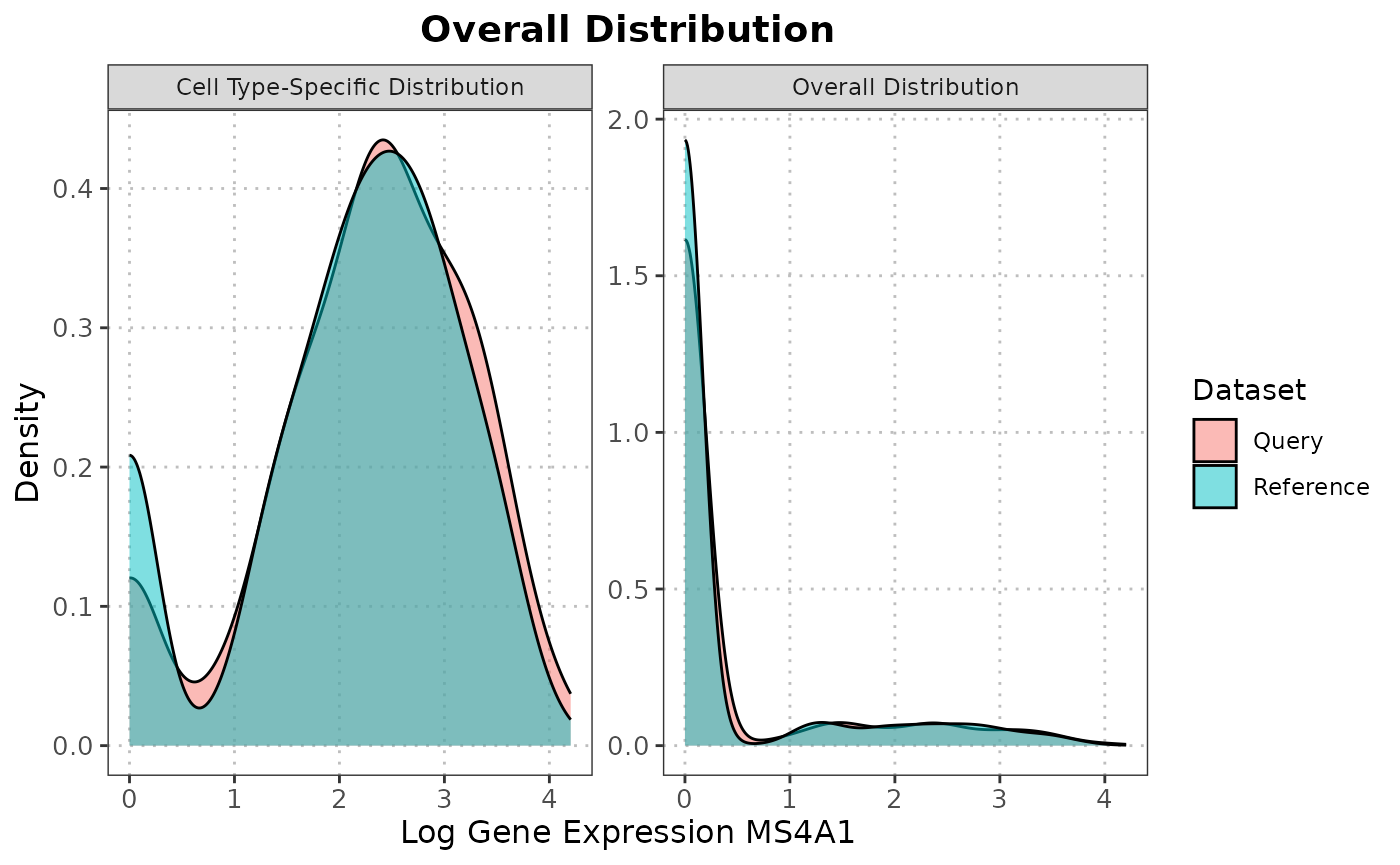
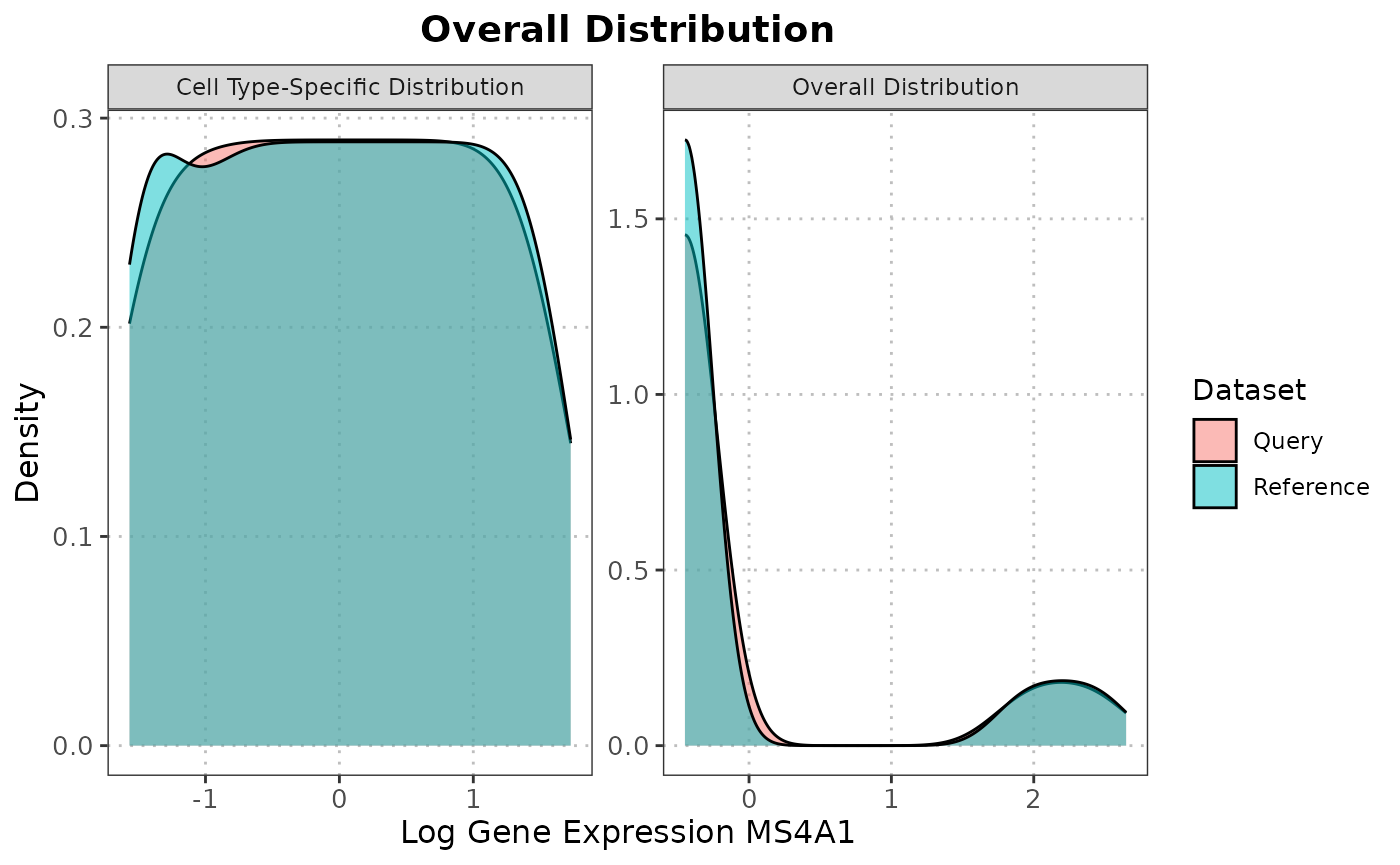
Deploying to gh-pages from @ AnthonyChristidis/scDiagnostics@44ef11c31638147f95b7b73ec2db5b08acc0f367 🚀

diff --git a/index.html b/index.html
@@ -75,10 +75,21 @@
 </h1></div>
 </div>
 <div class="section level1">
-<h1 id="purpose">Purpose<a class="anchor" aria-label="anchor" href="#purpose"></a>
+<h1 id="overview">Overview<a class="anchor" aria-label="anchor" href="#overview"></a>
 </h1>
-<p>Annotation transfer from a reference dataset for the cell type annotation of a new query single-cell RNA-sequencing (scRNA-seq) experiment is an integral component of the typical analysis workflow. The approach provides a fast, automated, and reproducible alternative to the manual annotation of cell clusters based on marker gene expression. However, dataset imbalance and undiagnosed incompatibilities between query and reference dataset can lead to erroneous annotation and distort downstream applications.</p>
-<p>The <code>scDiagnostics</code> package provides functionality for the systematic evaluation of cell type assignments in scRNA-seq data. <code>scDiagnostics</code> offers a suite of diagnostic functions to assess whether both (query and reference) datasets are aligned, ensuring that annotations can be transferred reliably. <code>scDiagnostics</code> also provides functionality to assess annotation ambiguity, cluster heterogeneity, and marker gene alignment. The implemented functionality helps researchers to determine how accurately cells from a new scRNA-seq experiment can be assigned to known cell types.</p>
+<p>The accurate annotation of cell types is a critical step in single-cell RNA-sequencing (scRNA-seq) analysis. While annotation transfer from a reference dataset offers a convenient and automated approach, it can also introduce biases and errors if not performed carefully.</p>
+<p><strong><code>scDiagnostics</code></strong> is an R package designed to address this challenge by providing a comprehensive set of diagnostic tools for evaluating the quality of cell type annotations in scRNA-seq data. With <strong><code>scDiagnostics</code></strong>, researchers can systematically assess the compatibility and accuracy of annotations, ensuring reliable and reproducible results in their scRNA-seq analysis workflow.</p>
+</div>
+<div class="section level1">
+<h1 id="key-features">Key Features<a class="anchor" aria-label="anchor" href="#key-features"></a>
+</h1>
+<ul>
+<li><p><strong>Systematic Evaluation</strong>: <strong><code>scDiagnostics</code></strong> offers a suite of functions to evaluate the quality of cell type annotations in scRNA-seq data. This includes assessing dataset imbalance, detecting incompatibilities between query and reference datasets, and identifying potential annotation errors.</p></li>
+<li><p><strong>Annotation Accuracy</strong>: The package helps ensure accurate cell type annotations by providing tools to assess annotation ambiguity and cluster heterogeneity. Researchers can identify ambiguous or mixed cell populations and adjust annotations accordingly.</p></li>
+<li><p><strong>Marker Gene Alignment</strong>: Proper marker gene alignment is crucial for consistent cell type definitions. <strong><code>scDiagnostics</code></strong> enables the comparison of marker genes between query and reference datasets, ensuring that annotations are based on consistent and reliable markers.</p></li>
+<li><p><strong>Detection of Dataset Incompatibilities</strong>: Incompatibilities between query and reference datasets can lead to erroneous annotations. <strong><code>scDiagnostics</code></strong> provides functionality to identify and address these incompatibilities, ensuring that annotations can be reliably transferred.</p></li>
+<li><p><strong>Cluster Heterogeneity Assessment</strong>: The package includes functions to assess the heterogeneity within annotated clusters. This helps researchers identify clusters that may contain multiple cell types or outlier cells, allowing for more accurate and refined annotations.</p></li>
+</ul>
 </div>
 <div class="section level1">
 <h1 id="installation">Installation<a class="anchor" aria-label="anchor" href="#installation"></a>
@@ -92,6 +103,12 @@
 <code class="sourceCode R"><span><span class="fu">BiocManager</span><span class="fu">::</span><span class="fu"><a href="https://bioconductor.github.io/BiocManager/reference/install.html" class="external-link">install</a></span><span class="op">(</span><span class="st">"ccb-hms/scDiagnostics"</span>,</span>
 <span>                     build_vignettes <span class="op">=</span> <span class="cn">TRUE</span>,</span>
 <span>                     dependencies <span class="op">=</span> <span class="cn">TRUE</span><span class="op">)</span></span></code></pre></div>
+</div>
+<div class="section level1">
+<h1 id="usage">Usage<a class="anchor" aria-label="anchor" href="#usage"></a>
+</h1>
+<p>To get an overview of the functionality of the package, refer to the <a href="https://ccb-hms.github.io/scDiagnostics/index.html" class="external-link">pkgdown website</a> for code examples. The complete documentation of each available function in <code>scDiagnostics</code>, which includes implementation details and working examples, is available in the <a href="https://ccb-hms.github.io/scDiagnostics/reference/index.html" class="external-link">reference tab</a>.</p>
+<p><strong><code>scDiagnostics</code></strong> is designed to be user-friendly and integrates seamlessly into any scRNA-seq analysis workflow. By providing robust diagnostic tools, the package helps ensure the accuracy and reliability of cell type annotations, leading to more meaningful and reproducible results.</p>
 </div>
 
   </div>

diff --git a/articles/scDiagnostics.html b/articles/scDiagnostics.html
@@ -218,7 +218,6 @@ expression patterns, as evident in the scatter plot below.</p>
 <span>                         score_col <span class="op">=</span> <span class="st">"cell_scores"</span>,</span>
 <span>                         label <span class="op">=</span> <span class="cn">NULL</span><span class="op">)</span></span>
 <span><span class="va">p1</span> <span class="op">+</span> <span class="fu"><a href="https://ggplot2.tidyverse.org/reference/labs.html" class="external-link">xlab</a></span><span class="op">(</span><span class="st">"Library Size"</span><span class="op">)</span></span></code></pre></div>
-<p><img src="scDiagnostics_files/figure-html/QC-plot-QC-vs-Annotation-1-1.png" width="700"></p>
 <p>However, certain QC metrics, such as the proportion of mitochondrial
 genes, may require careful consideration as they can sometimes be
 associated with cellular states or functions rather than noise. The
@@ -275,7 +274,6 @@ macrophages and monocytes, adding biological context to our results.</p>
 <span>                         label <span class="op">=</span> <span class="cn">NULL</span><span class="op">)</span></span>
 <span><span class="va">p2</span> <span class="op">+</span> <span class="fu"><a href="https://ggplot2.tidyverse.org/reference/scale_manual.html" class="external-link">scale_color_manual</a></span><span class="op">(</span>values <span class="op">=</span> <span class="va">cols</span><span class="op">)</span> <span class="op">+</span></span>
 <span>    <span class="fu"><a href="https://ggplot2.tidyverse.org/reference/labs.html" class="external-link">xlab</a></span><span class="op">(</span><span class="st">"Subsets Mitochondrial Percentage (%)"</span><span class="op">)</span></span></code></pre></div>
-<p><img src="scDiagnostics_files/figure-html/QC-plot-QC-vs-Annotation-2-1.png" width="700"></p>
 </div>
 <div class="section level3">
 <h3 id="examining-distribution-of-qc-stats-and-annotation-scores">Examining Distribution of QC stats and Annotation Scores<a class="anchor" aria-label="anchor" href="#examining-distribution-of-qc-stats-and-annotation-scores"></a>
@@ -303,7 +301,6 @@ gene expression profiles for the specific cell type.</p>
 <span>                   label_col <span class="op">=</span> <span class="st">"pred.labels"</span>, </span>
 <span>                   score_col <span class="op">=</span> <span class="st">"cell_scores"</span>, </span>
 <span>                   label <span class="op">=</span> <span class="cn">NULL</span><span class="op">)</span></span></code></pre></div>
-<p><img src="scDiagnostics_files/figure-html/hist-QC-vs-Annotation-1.png" width="700"></p>
 <p>The right-skewed distribution for mitochondrial percentages and a
 left-skewed distribution for annotation scores in above histograms
 suggest that most cells have lower mitochondrial contamination and

diff --git a/reference/plotMarkerExpression.html b/reference/plotMarkerExpression.html
@@ -108,7 +108,11 @@ for a specific gene across the overall dataset and within a specified cell type.
     <p>This function generates density plots to compare the distribution of a specific marker 
 gene between reference and query datasets. The aim is to inspect the alignment of gene expression 
 levels as a surrogate for dataset similarity. Similar distributions suggest a good alignment, 
-while differences may indicate discrepancies or incompatibilities between the datasets.</p>
+while differences may indicate discrepancies or incompatibilities between the datasets. 
+To make the gene expression scales comparable between the datasets, the gene expression values 
+are transformed using z-rank normalization. This transformation ranks the expression values 
+and then scales the ranks to have a mean of 0 and a standard deviation of 1, which helps 
+in standardizing the distributions for comparison.</p>
     </div>
 
     <div id="ref-examples">

diff --git a/news/index.html b/news/index.html
@@ -52,7 +52,7 @@
 
     <div class="section level2">
 <h2 class="page-header" data-toc-text="0.99.0" id="scdiagnostics-0990">scDiagnostics 0.99.0<a class="anchor" aria-label="anchor" href="#scdiagnostics-0990"></a></h2>
-<ul><li>Initial CRAN submission.</li>
+<ul><li>Initial Bioconductor submission.</li>
 <li>New package scDiagnostics, for cell type annotation diagnostics.</li>
 </ul></div>
   </div>
